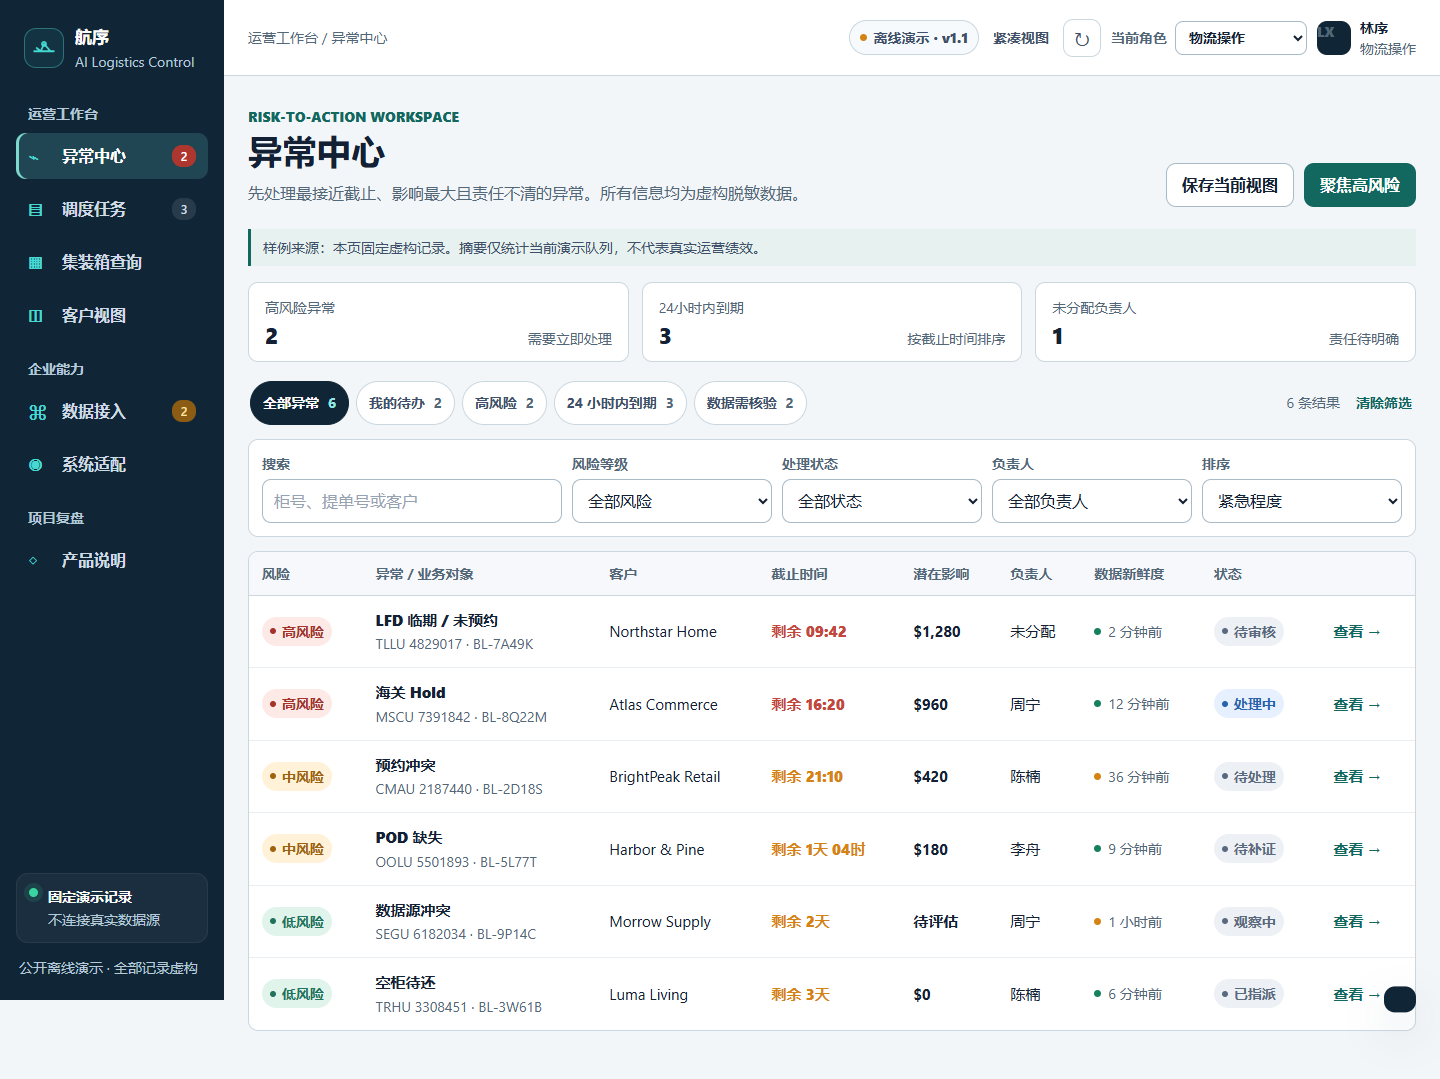
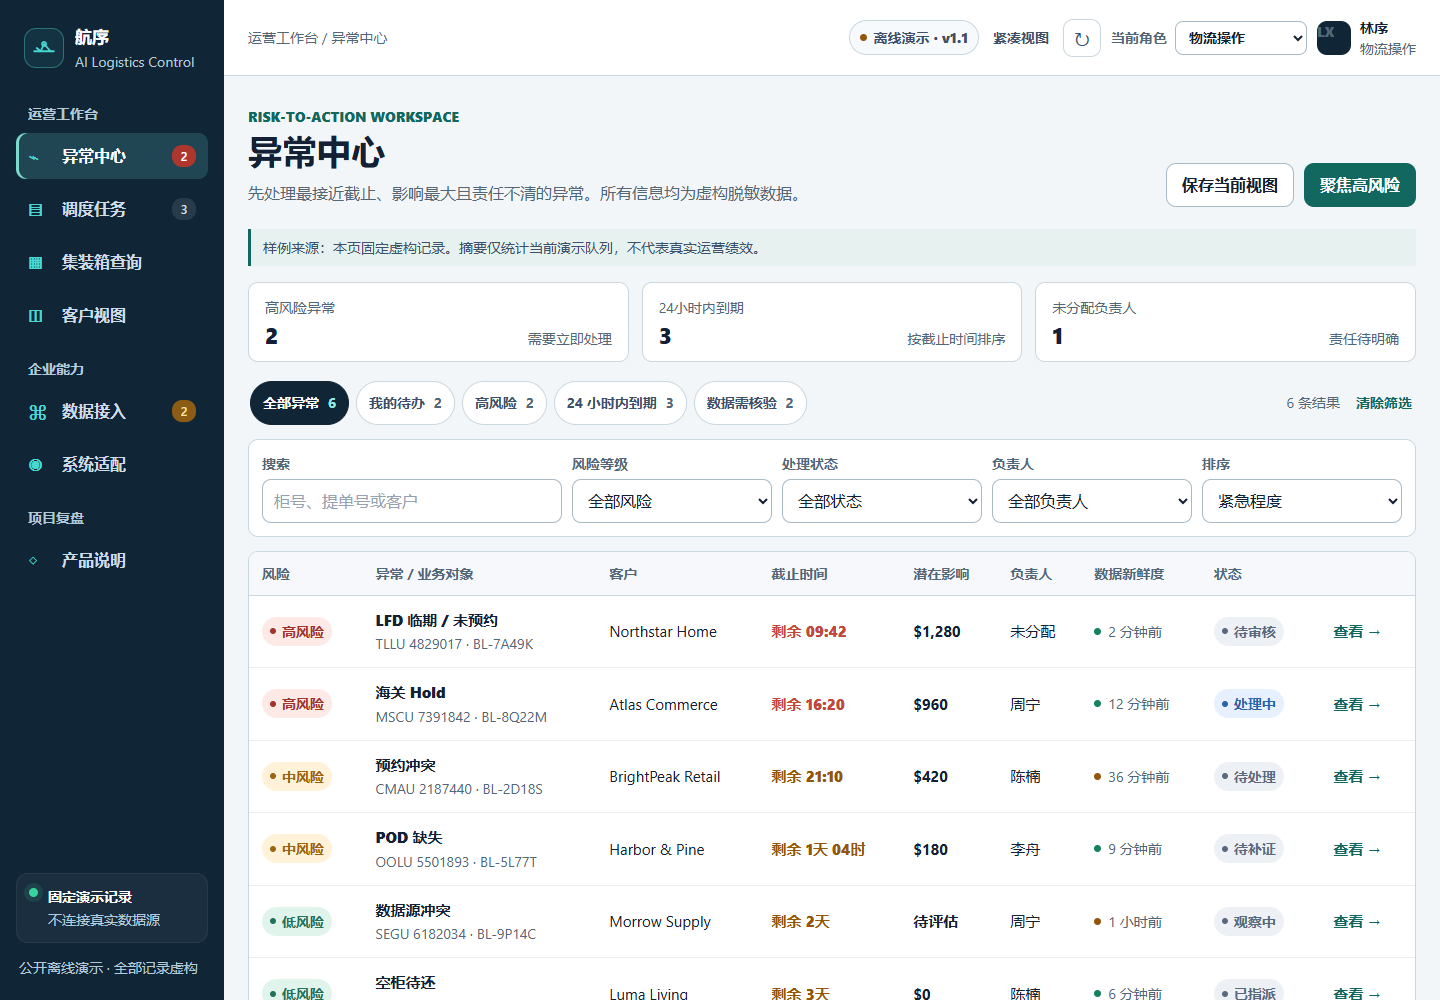
Polish contrast and stable public previews

diff --git a/dist/app.js b/dist/app.js
@@ -87,7 +87,6 @@ const roles = {
   customer: { label: "客户用户", name: "客户访客", canApprove: false, canExecute: false, view: "external" }
 };
 
-const lifecycleSteps = ["新发现", "待确认", "待审核", "已创建任务", "处理中", "待验证", "已关闭"];
 const auditLog = [
   { time: "09:12", actor: "规则引擎", action: "识别 LFD 临期且未预约，创建高风险异常" },
   { time: "09:14", actor: "AI Copilot", action: "生成处置建议，置信度 87%" },
@@ -162,11 +161,6 @@ function role() {
 function logAudit(actor, action) {
   const now = new Date();
   auditLog.unshift({ time: `${String(now.getHours()).padStart(2,"0")}:${String(now.getMinutes()).padStart(2,"0")}`, actor, action });
-}
-
-function lifecycleIndex(status) {
-  const map = { "待处理":1, "观察中":1, "待补证":1, "待审核":2, "待人工复核":2, "已指派":3, "已创建任务":3, "处理中":4, "待验证":5, "已关闭":6 };
-  return map[status] ?? 0;
 }
 
 function setView(view) {

diff --git a/dist/styles.css b/dist/styles.css
@@ -14,7 +14,7 @@
   --surface-3: #eef3f7;
   --cyan: #12685f;
   --cyan-soft: #dff6f4;
-  --amber: #d68316;
+  --amber: #94560c;
   --amber-soft: #fff2d8;
   --red: #c4473d;
   --red-soft: #fde9e6;
@@ -433,6 +433,8 @@ td { font-size: .9375rem; }
 .fact-list li, .missing-list li, .section-title, .task-card { overflow-wrap: anywhere; }
 .ai-actions { flex-wrap: wrap; }
 .view-tools { flex-wrap: wrap; white-space: normal; }
+.toast:not(.show) { visibility: hidden; }
+.sidebar button:focus-visible { outline-color: #8be6d3; }
 .modal { max-height: 90dvh; overflow: auto; }
 .task-board { align-items: start; }
 .task-board { grid-template-columns: repeat(3, minmax(0,1fr)); overflow: visible; }

diff --git a/docs/UI_QA.md b/docs/UI_QA.md
@@ -5,7 +5,7 @@
 | 检查 | 结果 | 范围 |
 | --- | --- | --- |
 | 320、375、768、1440 CSS px | pass | 初始队列无页面横向溢出；导航和快捷筛选可局部滚动 |
-| 200% 文字放大 | pass | 375px，根字号加倍，保留控件与内容 |
+| 200% 文字放大 | pass | 375px，将全部元素的原计算字号加倍，保留控件与内容 |
 | 文字间距覆盖 | pass | 375px，行高1.5、字距.12em、词距.16em、段距2em |
 | 键盘操作 | pass | 跳转链接、详情焦点范围、编辑窗口、逐层 Escape、焦点返回 |
 | 减少动态效果 | pass | reduced-motion 环境运行，动画与过渡关闭 |
